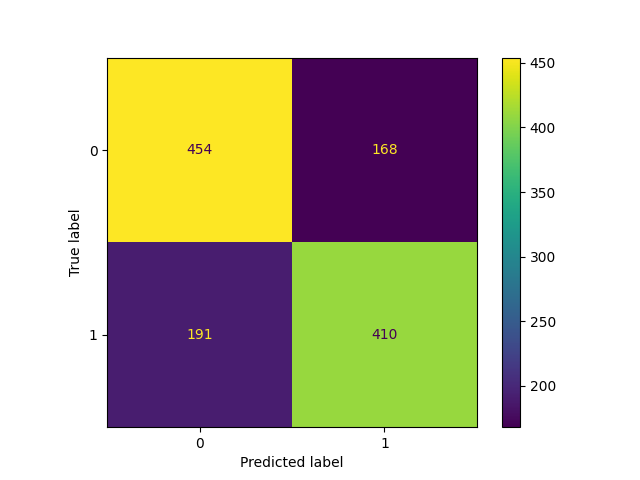
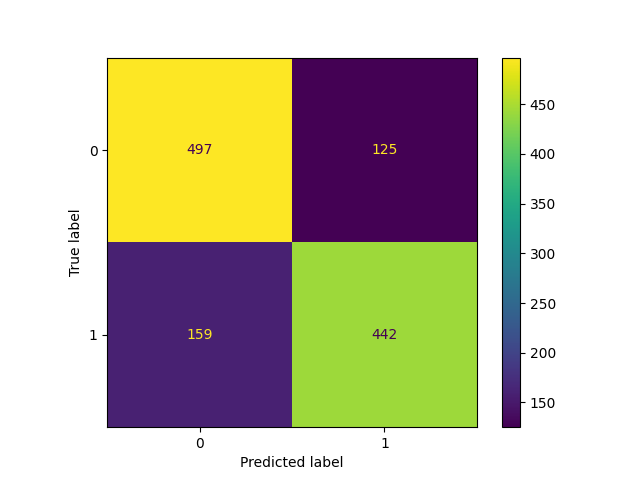
Refactor model training to use Random Forest instead of Logistic Regression

diff --git a/src/train.py b/src/train.py
@@ -7,6 +7,7 @@ import mlflow.models
 import pandas as pd
 import pickle as pkl
 import matplotlib.pyplot as plt
+import sklearn
 from sklearn.utils import resample
 from sklearn.model_selection import train_test_split
 from sklearn.linear_model import LogisticRegression
@@ -115,31 +116,38 @@ def preprocess(df):
 
 def train(X_train, y_train):
     """
-    Train a logistic regression model.
+    Train a random forest regression model.
 
     Args:
         X_train (pd.DataFrame): DataFrame with features
         y_train (pd.Series): Series with target
 
     Returns:
-        LogisticRegression: trained logistic regression model
+        RandomForestRegressor: trained random forest regression model
     """
-    log_reg = LogisticRegression(max_iter=1000)
-    log_reg.fit(X_train, y_train)
+    n_estimators = 100
+    criterion = "gini"
+    max_depth = None
+    RF = sklearn.ensemble.RandomForestClassifier(
+        n_estimators=n_estimators,
+        criterion=criterion,
+        max_depth=max_depth,
+    )
+    RF.fit(X_train, y_train)
 
     ### Log the model with the input and output schema
     # Infer signature (input and output schema)
-    sign = mlflow.models.infer_signature(X_train, log_reg.predict(X_train))
+    sign = mlflow.models.infer_signature(X_train, RF.predict(X_train))
     
     # Log model
     mlflow.sklearn.log_model(
-        sk_model=log_reg, 
+        sk_model=RF,
         artifact_path="model", 
         signature=sign
     )
     ### Log the data
     mlflow.log_artifact("dataset/Churn_Modelling.csv", artifact_path="data")
-    return log_reg
+    return RF
 
 
 def main():
@@ -149,12 +157,16 @@ def main():
     mlflow.set_experiment("Bank Customer Churn Prediction")
 
     ### Start a new run and leave all the main function code as part of the experiment
-    mlflow.start_run(run_name="Logistic Regression")
+    mlflow.start_run(run_name="Random Forest")
     df = pd.read_csv("dataset/Churn_Modelling.csv")
     col_transf, X_train, X_test, y_train, y_test = preprocess(df)
 
     ### Log the max_iter parameter
-    mlflow.log_param("max_iter", 1000)
+    mlflow.log_params({
+        "n_estimators": 100,
+        "criterion": "gini",
+        "max_depth": None,
+    })
     model = train(X_train, y_train)
 
     
@@ -167,7 +179,7 @@ def main():
     mlflow.log_metric("f1", f1_score(y_test, y_pred))
 
     ### Log tag
-    mlflow.set_tag("model", "Logistic Regression")
+    mlflow.set_tag("model", "Random Forest")
 
     
     conf_mat = confusion_matrix(y_test, y_pred, labels=model.classes_)
